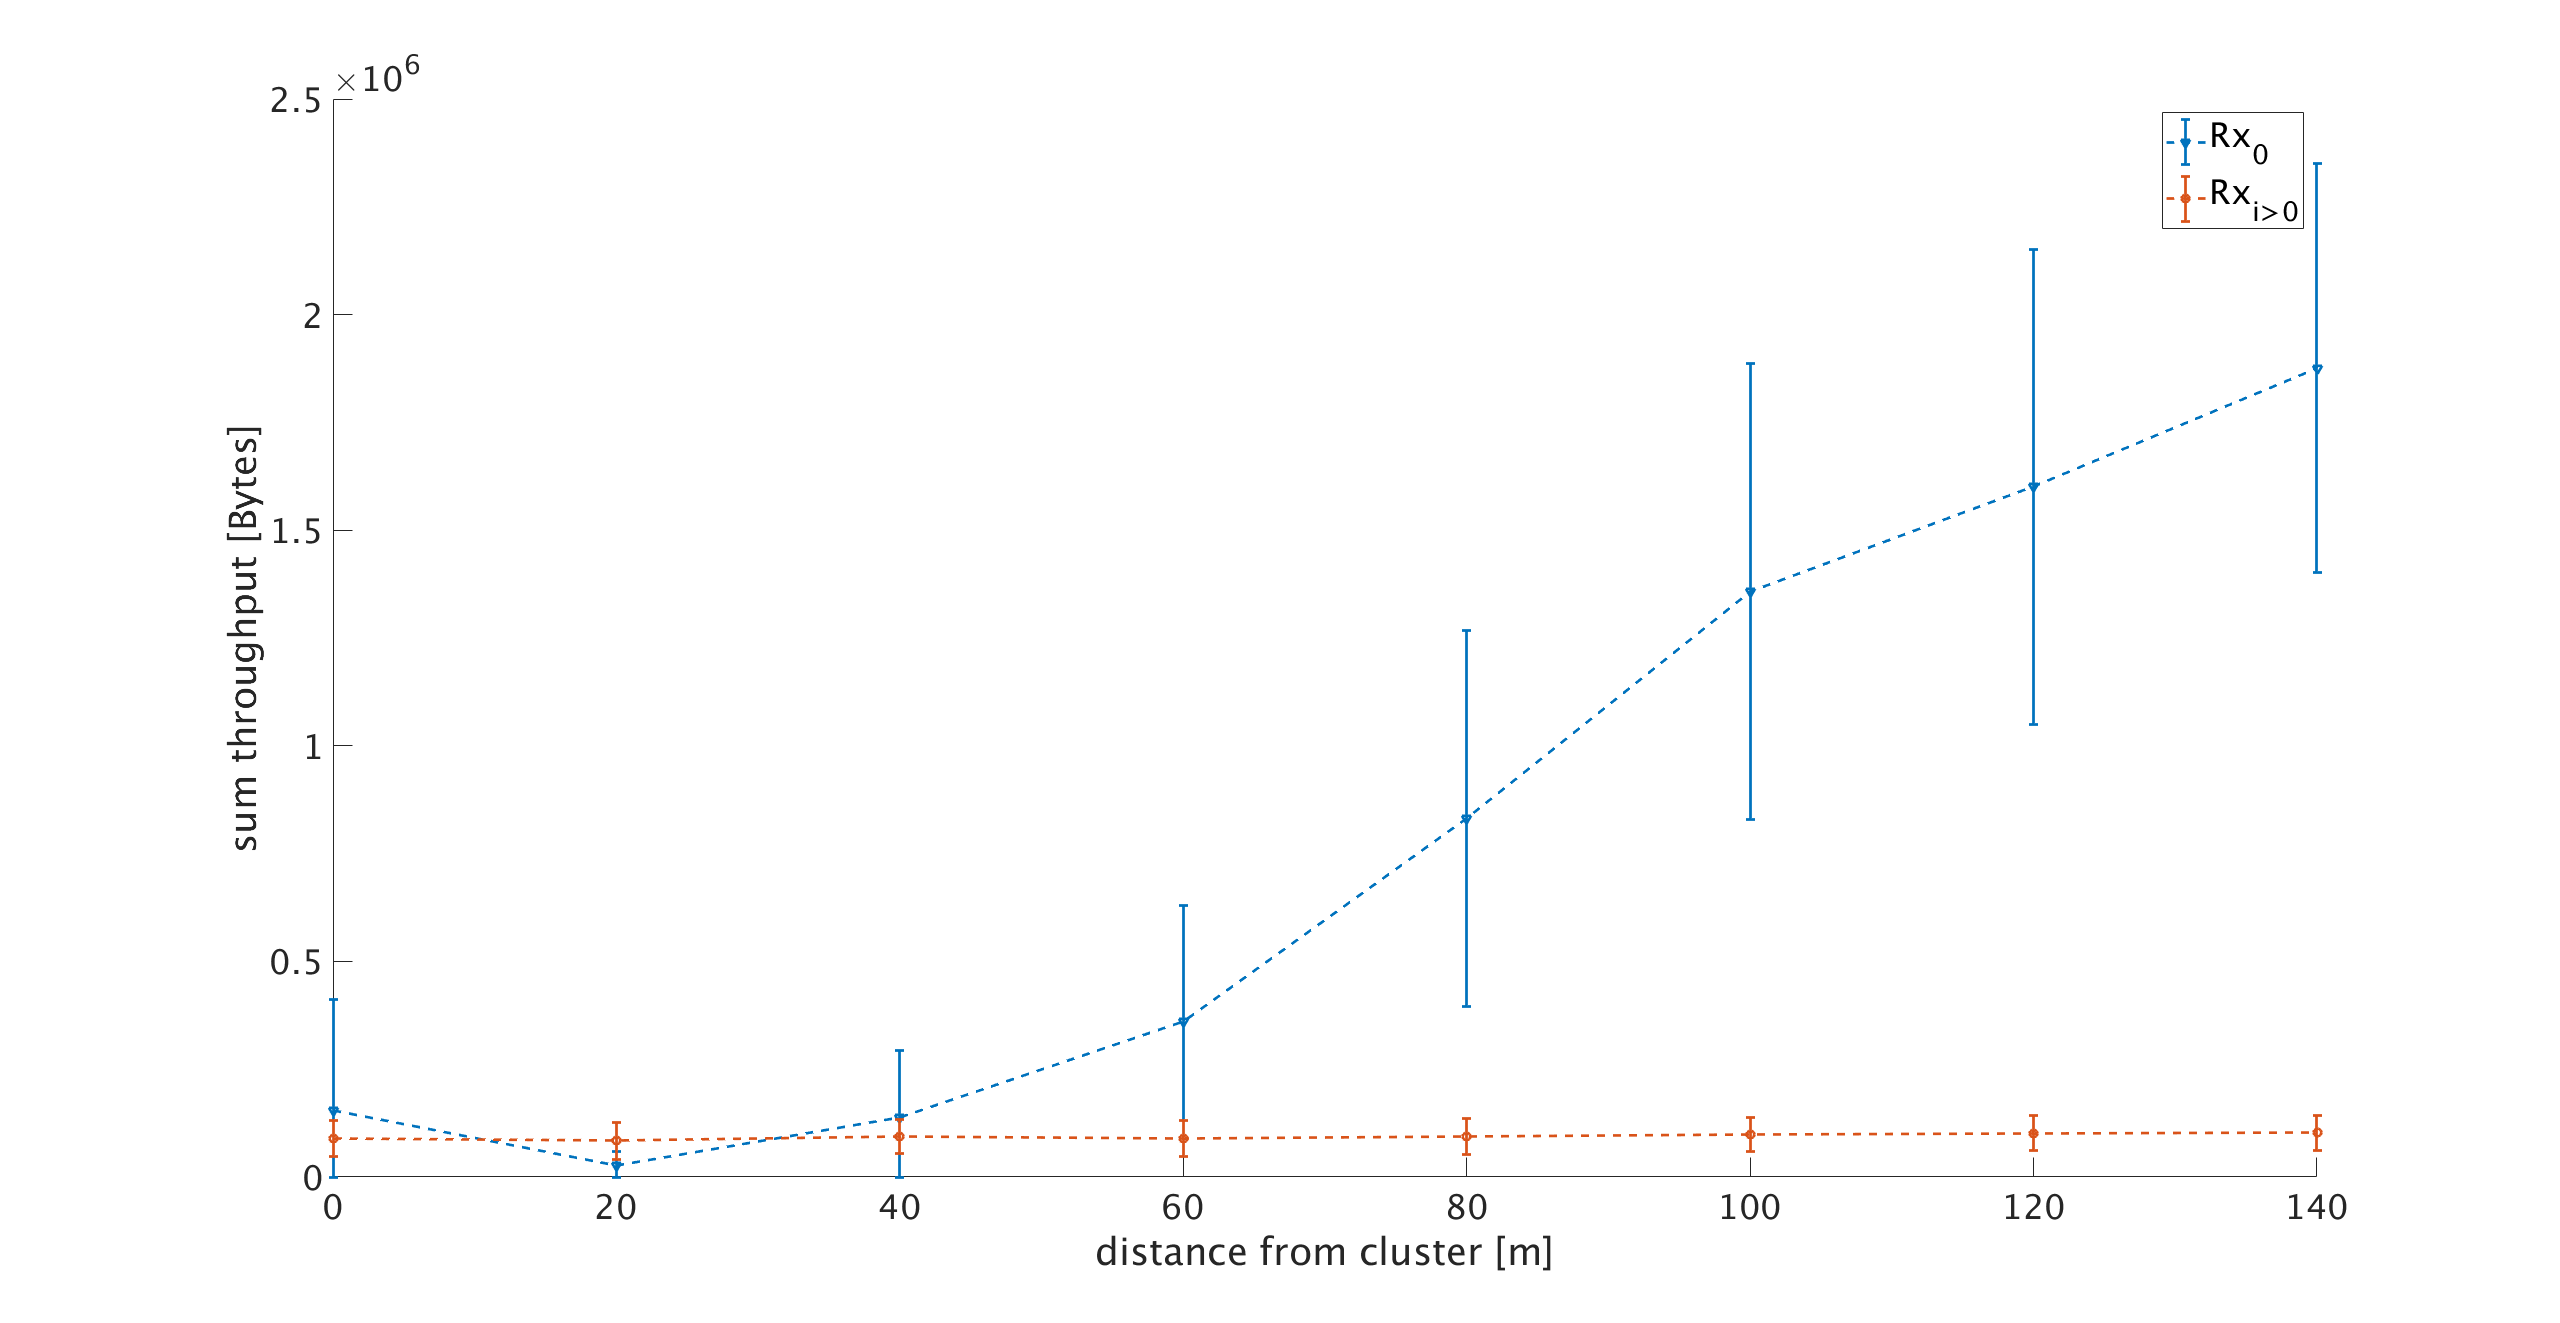
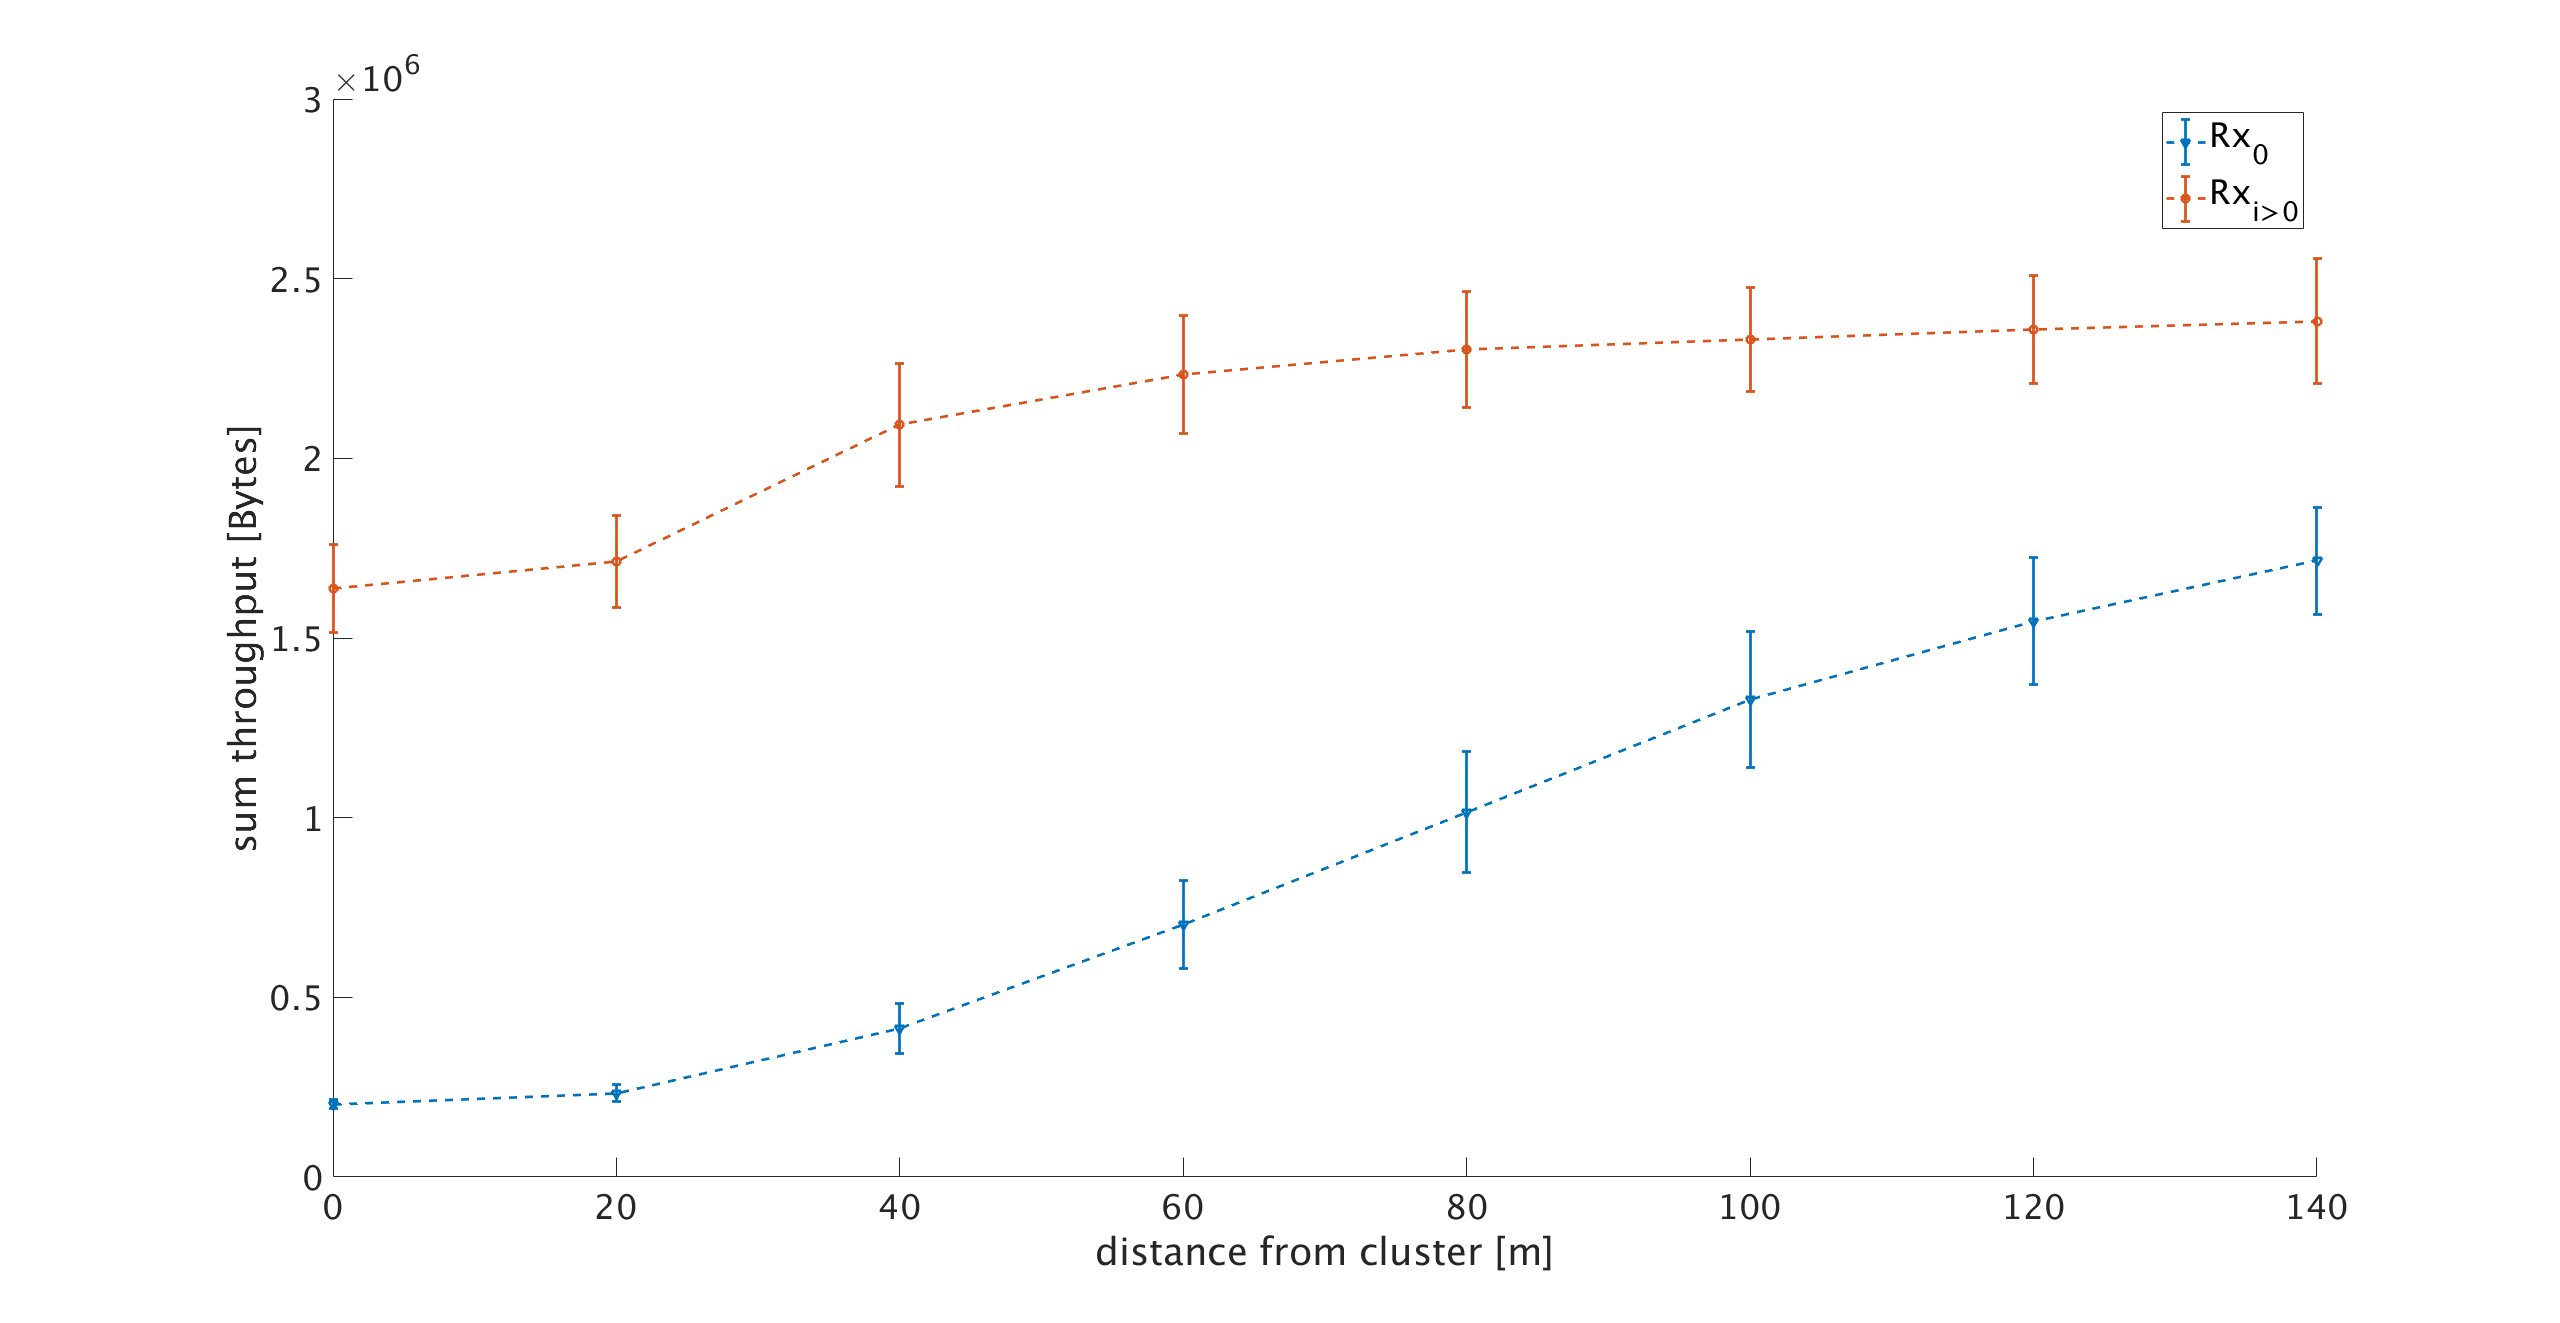
[Config testInCellInterferenceAnalytical]

diff --git a/frequency-reuse/evaluation/plots/analysis_cluster_interference.m b/frequency-reuse/evaluation/plots/analysis_cluster_interference.m
@@ -1,13 +1,13 @@
 reps = 20;
 dVec = 325:20:465;
-filenames = {};
+filenamesCluster = {};
 filenamesFirst = {};
 
 for i=1:size(dVec,2)
     d = dVec(i);
     for rep=0:(reps - 1)                                
-        filenames(i, rep+1) = {strcat('../../results/cluster-interference/d', num2str(d), '-rep', int2str(rep), '.sca.parsed')};           
-        filenamesFirst(i, rep+1) = {strcat('../../results/cluster-interference/d', num2str(d), '-rep', int2str(rep), '.sca.parsed.first')};           
+        filenamesCluster(i, rep+1) = {strcat('../../results/interferenceTesterNew/d', num2str(d), '-rep', int2str(rep), '.sca.parsed.cluster')};           
+        filenamesFirst(i, rep+1) = {strcat('../../results/interferenceTesterNew/d', num2str(d), '-rep', int2str(rep), '.sca.parsed.first')};           
     end    
 end
 
@@ -16,7 +16,7 @@ throughputMatCluster = zeros(size(dVec, 2), 3);
  
 for i=1:size(dVec, 2)
     [throughputMatSingle(i, 1), throughputMatSingle(i, 2), throughputMatSingle(i, 3)] = getMeanVec(filenamesFirst(i,:));
-    [throughputMatCluster(i, 1), throughputMatCluster(i, 2), throughputMatCluster(i, 3)] = getMeanVec(filenames(i,:));
+    [throughputMatCluster(i, 1), throughputMatCluster(i, 2), throughputMatCluster(i, 3)] = getSumBytesVec(filenamesCluster(i,:));
 end
 
 figure;

diff --git a/frequency-reuse/evaluation/plots/analysis_incell_interference.m b/frequency-reuse/evaluation/plots/analysis_incell_interference.m
@@ -1,0 +1,25 @@
+reps = 20;
+dVec = 420:20:500;
+filenames = {};
+
+for i=1:size(dVec,2)
+    d = dVec(i);
+    for rep=0:(reps - 1)                                
+        filenames(i, rep+1) = {strcat('../../results/testInCellInterferenceAnalytical/d', num2str(d), '-rep', int2str(rep), '.sca.int')};                   
+    end    
+end
+
+interferenceMat = zeros(size(dVec, 2), 3);
+ 
+for i=1:size(dVec, 2)
+    [interferenceMat(i, 1), interferenceMat(i, 2), interferenceMat(i, 3)] = getMeanVec(filenames(i,:));    
+end
+
+figure;
+hold on;
+ylabel('in-cell interference');
+errorbar(dVec - dVec(1), interferenceMat(:, 1), interferenceMat(:, 2), interferenceMat(:, 3), '--v', 'LineWidth', 2);
+xlabel('distance [m]');
+% legend({'Rx_0', 'Rx_{i>0}', 'Interpreter', 'latex'}, 'Location', 'northeast', 'FontSize', 26);
+set(gca,'FontSize', 26);
+hold off;

diff --git a/frequency-reuse/evaluation/interference_calculation.m b/frequency-reuse/evaluation/interference_calculation.m
@@ -1,0 +1,21 @@
+p_trans = 26; % dBm
+N = -174; % dB
+dVec = 325:20:465; % Meters.
+dVec = dVec / 1000; % Kilometers.
+d_pair = 10 / 1000; % Meters between transmitter and receiver.
+frequency = 2.4; % GHz.
+
+att_link = getPathAttenuation(d_pair, frequency);
+p_rcvd = p_trans - att_link;
+gain = p_rcvd - p_trans;
+
+interferenceVec = [];
+sinrVec = [];
+for i = 1 : size(dVec, 2)
+    att_interference = getPathAttenuation(dVec(i), frequency);
+    interferenceVec(i) = p_trans - att_interference;        
+    sinrVec(i) = 10^(p_rcvd/10) / (10^(interferenceVec(i)/10) + 10^(N/10));
+end
+
+sinrVec = 10*log10(sinrVec)
+
